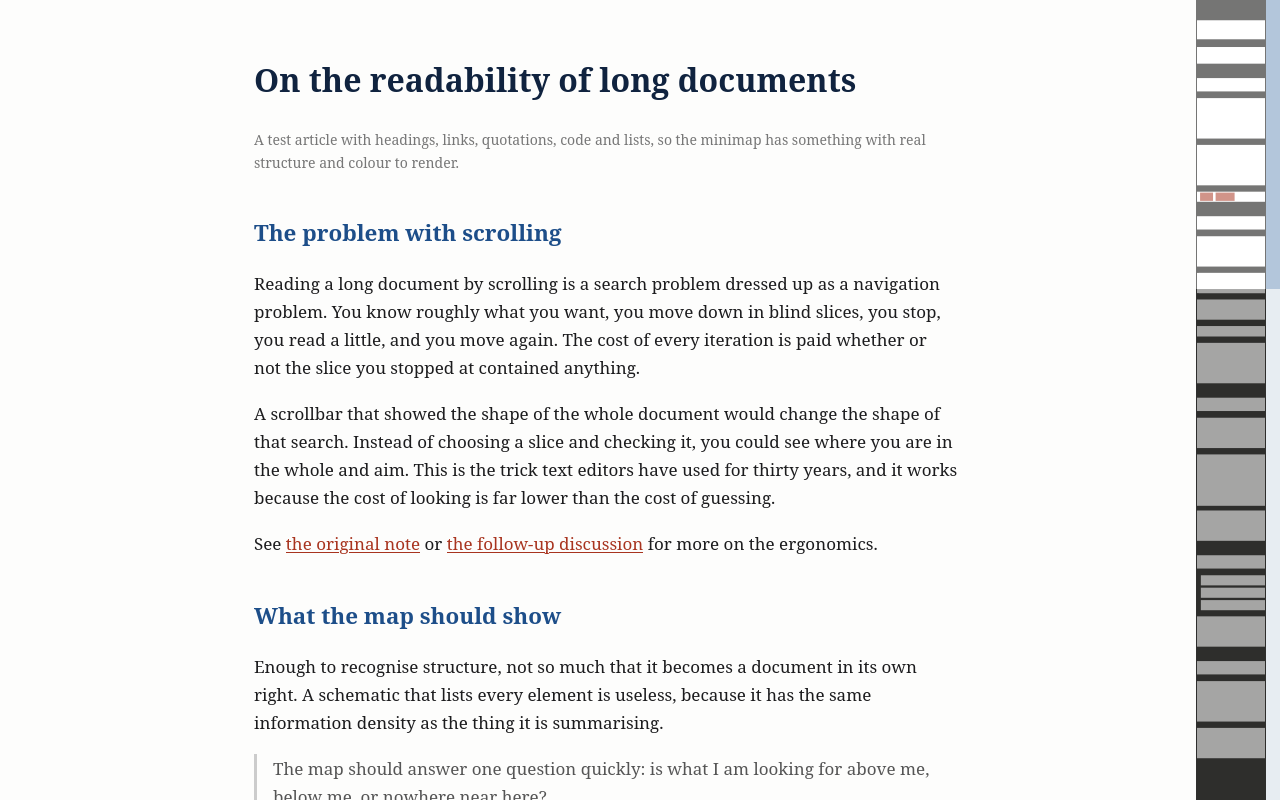
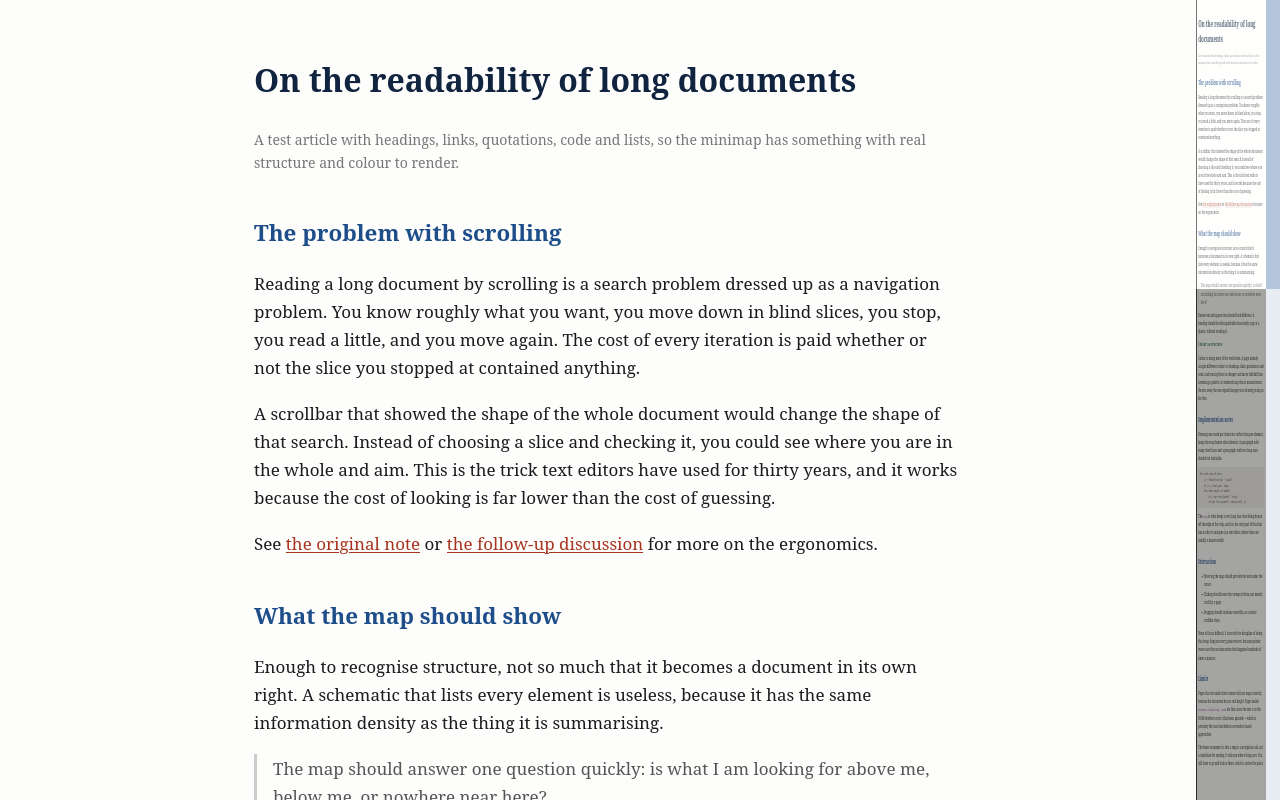
Describe the clone map in the docs and rebuild the listing assets
- README: the map is the page rendered small, the freshness policy, and the
  raster/block renderer as the fallback.
- listing.md: the map shows the page itself; the raster is the fallback.
- Regenerate the AMO screenshots over the clone map.

Changed region(s): [[0.9375, 0.0, 1.0, 1.0]]

diff --git a/README.md b/README.md
@@ -42,6 +42,31 @@ Kate caches the pixmap and rebuilds it on a timer; scrolling only repaints.
 That split is preserved, because building the map is the expensive half and
 stretching it is not.
 
+**The map is the page, rendered small.** The base is not an interpretation: a
+snapshot of the page's own `<body>` is mounted in a sandboxed same-origin
+iframe (`src/clone.js`) and scaled into the strip (`src/thumb.js`). The browser
+has already laid the page out, so a photo, a player, a canvas, a table or a
+column layout is shown as what it is, on any site, with no vocabulary of
+elements and no rule per site. The frame runs no scripts, and its animations
+and media are paused, so it is a picture rather than a second live copy. The
+hover preview mounts the same snapshot at 0.75 (`src/magnifier.js`), so the two
+views cannot disagree about what the page says.
+
+**The clone is a snapshot, not a mirror, so freshness is a policy.** A
+`MutationObserver` only raises a flag; a full rebuild is debounced and
+rate-limited, and never runs mid-scroll or while the pointer is on the rail
+(`src/freshness.js`). At scroll settle the rail samples only the band the
+viewport is in, and if that band no longer hashes the same as the base, a text
+patch is drawn over that band instead of rebuilding the world. A page that
+recycles its content — a virtual list, whose DOM never holds the whole document
+— is recognised after a few differing settles and is not fully rebuilt again,
+so the map keeps what the user has seen instead of forgetting it.
+
+**The raster is the fallback.** On a long single-column document the map was,
+and still can be, a raster of the page's text rather than a schematic of its
+elements. It is what the strip shows while the clone is mounting, and it is
+what `mapMode: "raster"` selects; a page that cannot be cloned keeps it.
+
 The one deliberate deviation in Kate's arithmetic is the struck-through line
 in the table. Kate sizes the map's *scrollable* range as
 `min(grooveHeight, pixmapHeight * 2) - 2`,
@@ -52,13 +77,13 @@ the strip — and it leaves the map, the thumb and the preview in three differen
 coordinate systems. The map spans the groove instead; the arithmetic and the
 measurement are at the point of use in `src/textmap.js` (`paint()`).
 
-**On a long document the map is a raster of the page's text, not a schematic
-of its elements.** Kate draws one pixel per character, coloured by that
-character's own attributes, and downsamples by skipping every Nth line and
+**On a long document the raster is a raster of the page's text, not a
+schematic of its elements.** Kate draws one pixel per character, coloured by
+that character's own attributes, and downsamples by skipping every Nth line and
 every Nth character as the document outgrows the strip. A page gives us the
 colouring for free — Kate pays for syntax highlighting explicitly, whereas a
 page's computed styles already separate headings, links, body copy,
-quotations and code.
+quotations and code. This is the fallback path; the clone is the default.
 
 `src/textmap.js` does this on a canvas.
 
@@ -78,7 +103,7 @@ characters are sliced onto it. Whitespace that is genuinely significant
 value rather than guessed.
 
 **A page that is not one column of text stops being a raster.** Three things
-switch the map to semantic blocks. One is zoom: below one text line per 4px of
+switch the fallback to semantic blocks. One is zoom: below one text line per 4px of
 groove — short articles, site stubs, the settings page — each line is stretched
 into a band of blobs and the characters stop being characters. The second is
 shape: when the text is spread over more than 0.75 of the viewport's width (a
@@ -105,7 +130,7 @@ reads as text, nothing about it changes.
 
 `test/fixtures/expected-map.png` is the real output, magnified 6×.
 
-**A page that is mostly pictures gets that block map, not the browser's
+**A page that is mostly pictures got that block map, not the browser's
 scrollbar.** An earlier version gave those pages up: the rail did not mount and
 the native scrollbar stayed. Measured on live pages — eBay's search, Amazon's
 list, Reddit's front, YouTube's watch page — the block map reads as the page,

diff --git a/assets/amo/listing.md b/assets/amo/listing.md
@@ -35,13 +35,12 @@ you where the rest of the page is before you go there.
 - **Click** to jump there. **Drag** to scroll continuously.
 - **Peek** parks the rail off-screen until you approach it.
 - **Minimap only** drops the track and keeps the map.
-- On short or multi-column pages the map turns into a block diagram — links in
-  their own colour, pictures as outlines, form controls as boxes in their
-  browser colours — so it stays clean instead of blurring.
-- On pages that are mostly pictures — a video player, a card grid, a shop's
-  search results — the map keeps the text and draws pictures and players as
-  solid bars, so the page still gets a map rather than the browser's own
-  scrollbar.
+- The map is the page itself, rendered small: the same markup, the same
+  styles, the same layout the browser already made. A photo, a player, a
+  chart, a form, a table of contents — it is shown as what it is, on any site,
+  rather than being guessed at.
+- Pages that cannot be cloned (rare) fall back to Kate's text raster, so the
+  rail is never empty.
 - The map's width, the preview's size, its colours and a per-site exclusion
   list are all settings.
 - The default strip colour follows your Firefox theme.
@@ -78,9 +77,15 @@ minimap, scrollbar, scroll bar, overview, navigation, long documents
 
 ## Notes for reviewers
 
-- The minimap's rendering is a port of `KateScrollBar` in Kate's
-  `ktexteditor` (upstream: https://invent.kde.org/frameworks/ktexteditor).
-  The tables in the README map each piece of Kate's arithmetic to its port.
+- The map and the hover preview are a clone of the page's own `<body>` in a
+  sandboxed same-origin iframe (`src/clone.js`), scaled with CSS transforms.
+  Scripts do not run in the frame, and animations and media are paused, so it
+  is a picture of the page rather than a second live copy. The rail shows it
+  fitted to the strip; hovering shows the same clone at 0.75.
+- The text raster (`src/textmap.js`) is a port of `KateScrollBar` in Kate's
+  `ktexteditor` (upstream: https://invent.kde.org/frameworks/ktexteditor) and
+  remains the fallback when a page cannot be cloned. The tables in the README
+  map each piece of Kate's arithmetic to its port.
 - `src/vendor/vugluscr.standalone.js` is an unminified rollup bundle of
   vugluscr 2.0.0 (MIT); the surrounding files are the extension. The vendor's
   NOTICE and LICENSE are in `src/vendor/`.
